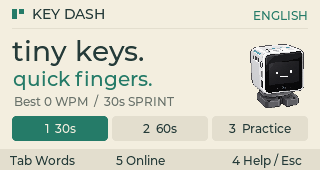
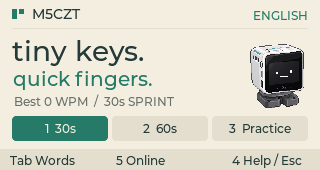
Rename app to M5 Cardputer Zero Typing with M5CZT display name

Changed region(s): [[0.0938, 0.0294, 0.3438, 0.1176]]

diff --git a/online/site/index.html b/online/site/index.html
@@ -3,10 +3,10 @@
 <head>
   <meta charset="UTF-8">
   <meta name="viewport" content="width=device-width,initial-scale=1">
-  <meta name="description" content="CardputerZeroの小さなキーボードで世界に挑戦。KEY DASHの公開タイピングランキング。">
+  <meta name="description" content="CardputerZeroの小さなキーボードで世界に挑戦。M5CZTの公開タイピングランキング。">
   <meta name="color-scheme" content="light">
   <meta name="referrer" content="no-referrer">
-  <title>KEY DASH — CardputerZero ランキング</title>
+  <title>M5 Cardputer Zero Typing (M5CZT) — ランキング</title>
   <link rel="icon" href="icon.png">
   <link rel="stylesheet" href="style.css">
   <script src="config.js" defer></script>
@@ -16,7 +16,7 @@
 <body>
   <a class="skip" href="#ranking">ランキングへ</a>
   <div class="page">
-    <header><a class="brand" href="./" aria-label="KEY DASH ホーム">KEY DASH</a><nav aria-label="サイト内ナビゲーション"><button id="open-contact" type="button">連絡先（任意）</button><a href="#how-to">遊び方</a></nav></header>
+    <header><a class="brand" href="./" aria-label="M5CZT ホーム">M5CZT</a><nav aria-label="サイト内ナビゲーション"><button id="open-contact" type="button">連絡先（任意）</button><a href="#how-to">遊び方</a></nav></header>
     <main>
       <section id="contact" class="contact-section" aria-labelledby="contact-title" hidden>
         <h1 id="contact-title" tabindex="-1">連絡先の登録</h1>
@@ -24,7 +24,7 @@
         <form id="contact-code-form">
           <label for="contact-code">アプリに表示された連絡先コード</label>
           <div class="code-entry"><input id="contact-code" name="code" type="text" placeholder="ABCD-EFGH-JKLM" maxlength="20" autocomplete="off" autocapitalize="characters" spellcheck="false" required><button type="submit">確認する</button></div>
-          <p class="form-hint">KEY DASHで「5 Online → 6 Contact」を選んでください。コードは10分間有効です。</p>
+          <p class="form-hint">M5CZTで「5 Online → 6 Contact」を選んでください。コードは10分間有効です。</p>
         </form>
         <button id="contact-change-code" class="secondary" type="button" hidden>別のコードを使う</button>
         <form id="contact-details-form" hidden>
@@ -41,6 +41,7 @@
         <button id="close-contact" class="secondary" type="button">ランキングに戻る</button>
       </section>
       <section class="intro" aria-labelledby="title">
+        <p class="product-name">M5 Cardputer Zero Typing</p>
         <h1 id="title"><span>小さなキーで、</span><wbr><span>世界に挑戦。</span></h1>
         <p>CardputerZeroのタイピング<wbr><span>ランキング</span></p>
       </section>
@@ -61,7 +62,7 @@
       </section>
       <section class="how-to" id="how-to" aria-labelledby="join-title">
         <h2 id="join-title">参加するには</h2>
-        <ol><li><span>KEY DASHを起動</span></li><li><span>オンラインで<br>プレイヤー名を入力</span></li><li><span>30秒または60秒に挑戦</span></li></ol>
+        <ol><li><span>M5CZTを起動</span></li><li><span>オンラインで<br>プレイヤー名を入力</span></li><li><span>30秒または60秒に挑戦</span></li></ol>
       </section>
     </main>
     <footer><p>記録はオンラインチャレンジから登録されます。</p><details><summary>記録とプレイヤー名について</summary><p>アプリのメニューで「5 Online」を選び、名前を登録してください。GitHubアカウントは不要です。名前は3〜12文字の英数字・_・-が使えます。名前とベストスコア、正確率、記録日が公開されます。</p><p>順位はWPM、正確率、先に記録した日時の順で決まります。WPMは1単語を5文字として計算します。練習モードはランキング対象外です。サーバーは入力履歴から記録を再計算しますが、人間による入力を証明する仕組みではありません。</p><p>プレイヤーキーは端末内に保存されます。アカウントのパスワード復旧機能はありません。端末変更に備え、設定フォルダーのonline-player.jsonを非公開でバックアップしてください。削除を希望する場合は、<a href="https://github.com/yuk1-kondo/key-dash-ranking/issues">ランキング用リポジトリのIssue</a>から管理者にご連絡ください。キーをIssueに貼り付けないでください。</p></details><p class="credits">StackChanのイラストはM5Stack公式K151を参考にした非公式の表現です。Stack-chan: ししかわ・コミュニティ。<a href="https://docs.m5stack.com/en/StackChan">M5Stack公式製品</a> / <a href="https://github.com/stack-chan/stack-chan">作品ページ</a></p></footer>

diff --git a/online/src/contacts.js b/online/src/contacts.js
@@ -34,9 +34,9 @@ export async function contactRoute(request, env, now, fingerprint) {
   const data = await body(request), code = normalizeCode(data.code), codeHash = await hash(code);
   const link = await env.DB.prepare(`SELECT l.*,p.name FROM contact_links l JOIN players p ON p.id=l.player_id
     WHERE l.code_hash=?`).bind(codeHash).first();
-  if (!link || now >= link.expires_at) throw new HttpError(410, 'Contact code expired. Get a new code in KEY DASH.');
+  if (!link || now >= link.expires_at) throw new HttpError(410, 'Contact code expired. Get a new code in M5CZT.');
   if (path === '/v1/contact-links/lookup') {
-    if (link.used_at !== null) throw new HttpError(409, 'Contact code already used. Get a new code in KEY DASH.');
+    if (link.used_at !== null) throw new HttpError(409, 'Contact code already used. Get a new code in M5CZT.');
     const contact = await env.DB.prepare('SELECT 1 AS registered FROM player_contacts WHERE player_id=?').bind(link.player_id).first();
     return json({ name: link.name, expires_at: link.expires_at, has_contact: Boolean(contact), purpose: CONTACT_PURPOSE });
   }
@@ -46,7 +46,7 @@ export async function contactRoute(request, env, now, fingerprint) {
   const digest = await hash(JSON.stringify([data.action, email, data.action === 'save' ? CONTACT_PURPOSE : '']));
   if (link.used_at !== null) {
     if (link.request_hash === digest) return json({ action: link.action, saved: link.action === 'save' });
-    throw new HttpError(409, 'Contact code already used. Get a new code in KEY DASH.');
+    throw new HttpError(409, 'Contact code already used. Get a new code in M5CZT.');
   }
   const mutation = data.action === 'save'
     ? env.DB.prepare(`INSERT INTO player_contacts(player_id,email,consent_version,consented_at,updated_at)
@@ -61,6 +61,6 @@ export async function contactRoute(request, env, now, fingerprint) {
       WHERE code_hash=? AND used_at IS NULL AND expires_at>?`).bind(now, digest, data.action, codeHash, now)
   ]);
   const stored = await env.DB.prepare('SELECT request_hash,action FROM contact_links WHERE code_hash=?').bind(codeHash).first();
-  if (stored.request_hash !== digest) throw new HttpError(409, 'Contact code already used. Get a new code in KEY DASH.');
+  if (stored.request_hash !== digest) throw new HttpError(409, 'Contact code already used. Get a new code in M5CZT.');
   return json({ action: stored.action, saved: stored.action === 'save' });
 }

diff --git a/online/src/worker.js b/online/src/worker.js
@@ -41,7 +41,7 @@ async function route(request, env, now) {
   const identity = await player(request, env.DB);
   if (path === '/v1/runs') {
     const { mode, pack, rules } = await body(request); board(mode, pack);
-    if (rules !== RULES_VERSION) throw new HttpError(409, 'Please update KEY DASH');
+    if (rules !== RULES_VERSION) throw new HttpError(409, 'Please update M5CZT');
     await limit(env.DB, `run:${identity.id}`, 60, 3600000, now);
     const id = crypto.randomUUID(), seed = crypto.getRandomValues(new Uint32Array(1))[0] || 1;
     const expires = now + 10 * 60000;

diff --git a/online/site/style.css b/online/site/style.css
@@ -12,3 +12,5 @@ h1 span,.intro p span{white-space:nowrap}
 @media(max-width:380px){.brand{font-size:20px;letter-spacing:.04em}header{gap:8px}header nav{gap:8px}header nav a,header nav button{font-size:11px}}
 
 #contact-change-code{font-size:13px;padding:5px 10px;margin-bottom:4px}.contact-section[aria-busy=true] #contact-change-code{opacity:.6}
+
+.intro .product-name{font-size:clamp(13px,2vw,17px);letter-spacing:.02em;margin:0 0 16px;line-height:1.5;color:var(--green)}

diff --git a/scripts/bundle_macos_preview.py b/scripts/bundle_macos_preview.py
@@ -2,12 +2,12 @@ from pathlib import Path
 import shutil, plistlib, subprocess, tempfile, os, zipfile, json
 project=Path(__file__).resolve().parents[1];root=project
 (project/'dist').mkdir(exist_ok=True)
-app=Path(tempfile.mkdtemp(prefix='key-dash-preview-',dir='/private/tmp'))/'KEY DASH.app'
+app=Path(tempfile.mkdtemp(prefix='key-dash-preview-',dir='/private/tmp'))/'M5CZT.app'
 mac=app/'Contents/MacOS';resources=app/'Contents/Resources';frameworks=app/'Contents/Frameworks'
 for p in (mac,resources,frameworks):p.mkdir(parents=True,exist_ok=True)
 main=mac/'key-dash';shutil.copy2(project/'build/darwin-arm64/Debug/key-dash',main)
 shutil.copytree(project/'assets',resources/'assets',dirs_exist_ok=True)
-plist={'CFBundleExecutable':'key-dash','CFBundleName':'KEY DASH','CFBundleDisplayName':'KEY DASH','CFBundleIdentifier':'local.key-dash.preview','CFBundleVersion':'1','CFBundleShortVersionString':json.loads((project/'app-builder.json').read_text())['version'],'CFBundlePackageType':'APPL','NSHighResolutionCapable':True,'LSMinimumSystemVersion':'13.0'}
+plist={'CFBundleExecutable':'key-dash','CFBundleName':'M5CZT','CFBundleDisplayName':'M5CZT','CFBundleIdentifier':'local.key-dash.preview','CFBundleVersion':'1','CFBundleShortVersionString':json.loads((project/'app-builder.json').read_text())['version'],'CFBundlePackageType':'APPL','NSHighResolutionCapable':True,'LSMinimumSystemVersion':'13.0'}
 (app/'Contents/Info.plist').write_bytes(plistlib.dumps(plist))
 queue=[(main,main)];seen=set();dependencies=[]
 while queue:
@@ -44,7 +44,7 @@ for file in app.rglob('*'):
 subprocess.run(['xattr','-cr',str(app)],check=True,capture_output=True)
 subprocess.run(['codesign','--force','--deep','--sign','-',str(app)],check=True,capture_output=True)
 subprocess.run(['codesign','--verify','--deep','--strict',str(app)],check=True,capture_output=True)
-output=project/'dist/KEY-DASH-macOS-preview.zip'
+output=project/'dist/M5CZT-macOS-preview.zip'
 with zipfile.ZipFile(output,'w',zipfile.ZIP_DEFLATED) as archive:
  for file in sorted(app.rglob('*')):
   if file.is_file():archive.write(file,file.relative_to(app.parent))

diff --git a/src/view/screens/typing_screen.cpp b/src/view/screens/typing_screen.cpp
@@ -85,7 +85,7 @@ void TypingScreen::footer(const char* first, const char* second, const char* thi
 void TypingScreen::home() {
     const auto& state = typing_.state();
     rectangle(content_, 12, 9, 5, 10, accent_); rectangle(content_, 19, 9, 5, 5, accent_);
-    text(content_, 32, 6, "KEY DASH", &lv_font_montserrat_14, ink_);
+    text(content_, 32, 6, "M5CZT", &lv_font_montserrat_14, ink_);
     auto* pack = text(content_, 230, 8, model::TypingModel::pack_name(visible_pack_), &lv_font_montserrat_12, accent_);
     lv_obj_set_width(pack, 78); lv_obj_set_style_text_align(pack, LV_TEXT_ALIGN_RIGHT, 0);
     rectangle(content_, 12, 28, 296, 1, surface_);
@@ -159,7 +159,7 @@ void TypingScreen::online() {
     using viewmodel::OnlinePanel;
     const auto panel = typing_.online_panel();
     char buffer[100];
-    text(content_, 12, 7, "KEY DASH / ONLINE", &lv_font_montserrat_12, accent_);
+    text(content_, 12, 7, "M5CZT / ONLINE", &lv_font_montserrat_12, accent_);
     rectangle(content_, 12, 27, 296, 1, surface_);
     if (panel == OnlinePanel::Contact) {
         if (!typing_.contact_url().empty()) {
@@ -169,7 +169,7 @@ void TypingScreen::online() {
             lv_qrcode_set_dark_color(qr, lv_color_black()); lv_qrcode_set_light_color(qr, lv_color_white());
             const auto& url = typing_.contact_url();
             if (lv_qrcode_update(qr, url.data(), static_cast<uint32_t>(url.size())) != LV_RESULT_OK)
-                std::fprintf(stderr, "KEY DASH: contact QR generation failed\n");
+                std::fprintf(stderr, "M5CZT: contact QR generation failed\n");
         }
         text(content_, 132, 35, "Optional email", &lv_font_montserrat_16, ink_);
         text(content_, 132, 60, typing_.contact_url().empty() ? "Enter for a new QR" : "Scan on your phone", &lv_font_montserrat_12, muted_);

diff --git a/src/network/online_client.cpp b/src/network/online_client.cpp
@@ -43,7 +43,7 @@ bool OnlineClient::start(std::string method, std::string path, std::string body,
         auto cleanup = std::unique_ptr<curl_slist, decltype(&curl_slist_free_all)>(headers, curl_slist_free_all);
         curl_easy_setopt(curl.get(), CURLOPT_URL, url.c_str());
         curl_easy_setopt(curl.get(), CURLOPT_HTTPHEADER, headers);
-        curl_easy_setopt(curl.get(), CURLOPT_USERAGENT, "KEY-DASH/0.3.0");
+        curl_easy_setopt(curl.get(), CURLOPT_USERAGENT, "M5CZT/0.3.1");
         curl_easy_setopt(curl.get(), CURLOPT_CONNECTTIMEOUT_MS, 4000L);
         curl_easy_setopt(curl.get(), CURLOPT_TIMEOUT_MS, 8000L);
         curl_easy_setopt(curl.get(), CURLOPT_NOSIGNAL, 1L);

diff --git a/src/viewmodel/typing_viewmodel.cpp b/src/viewmodel/typing_viewmodel.cpp
@@ -68,6 +68,6 @@ void TypingViewModel::tick(uint64_t now) {
     if (state_.dirty() && now - last_save_ >= 1000) { last_save_ = now; save(); publish(); }
 }
 void TypingViewModel::save() {
-    if (state_.dirty() && !state_.save()) std::fprintf(stderr, "KEY DASH save: %s\n", state_.storage_error().c_str());
+    if (state_.dirty() && !state_.save()) std::fprintf(stderr, "M5CZT save: %s\n", state_.storage_error().c_str());
 }
 }

diff --git a/src/app/desktop_simulator_frame.cpp b/src/app/desktop_simulator_frame.cpp
@@ -126,7 +126,7 @@ bool DesktopSimulatorFrame::initialize_sdl() {
         return false;
     }
 
-    window_ = SDL_CreateWindow("KEY DASH",
+    window_ = SDL_CreateWindow("M5CZT",
                                SDL_WINDOWPOS_CENTERED,
                                SDL_WINDOWPOS_CENTERED,
                                kWidth,

diff --git a/scripts/package_deb.py b/scripts/package_deb.py
@@ -27,7 +27,8 @@ Description: A typing game with optional online rankings for CardputerZero
 '''
 desktop = '''[Desktop Entry]
 Type=Application
-Name=KEY DASH
+Name=M5CZT
+Comment=M5 Cardputer Zero Typing
 Exec=/usr/bin/key-dash
 Icon=share/images/key-dash.png
 Terminal=false

diff --git a/src/model/base_model.cpp b/src/model/base_model.cpp
@@ -9,7 +9,7 @@
 namespace model {
 
 const char* BaseModel::app_title() const {
-    return "KEY DASH";
+    return "M5CZT";
 }
 
 const char* BaseModel::greeting() const {

diff --git a/README.md b/README.md
@@ -1,8 +1,8 @@
-# KEY DASH
+# M5 Cardputer Zero Typing (M5CZT)
 
 **Small keys. Quick fingers.** A pocket typing game for the CardputerZero keyboard.
 
-![KEY DASH](screenshot/game.png)
+![M5CZT](screenshot/game.png)
 
 C++17 / LVGL 9.5. Based on the MIT-licensed CardputerZero Template and the local KEY CRITTER display, keyboard, packaging and screenshot infrastructure. Offline play works without a connection. Optional online challenges use a public player name and a private per-player key. No root execution, external hardware, or background service.
 
@@ -111,12 +111,12 @@ python3 scripts/package_deb.py
 python3 scripts/validate_release.py
 ```
 
-The Python packager verifies a genuine ELF64 AArch64 executable and produces `dist/key-dash_0.3.0-rev1_arm64.deb`. It works on macOS, whose CPack distribution lacks the DEB generator. The device package contains the binary, APPLaunch entry, icon, documentation and applicable static-dependency licenses; no daemon is installed.
+The Python packager verifies a genuine ELF64 AArch64 executable and produces `dist/key-dash_0.3.1-rev1_arm64.deb`. It works on macOS, whose CPack distribution lacks the DEB generator. The device package contains the binary, APPLaunch entry, icon, documentation and applicable static-dependency licenses; no daemon is installed.
 
 After copying the package to the device:
 
 ```sh
-sudo apt install ./key-dash_0.3.0-rev1_arm64.deb
+sudo apt install ./key-dash_0.3.1-rev1_arm64.deb
 ```
 
 APPLaunch starts `/usr/bin/key-dash` as the logged-in user. The default display is `/dev/fb0`; the existing platform driver discovers evdev keyboards, with A–Z, digits, Space, Enter, Backspace and Tab mapping. Existing non-root access to the device nodes is required. Do not run as root.
